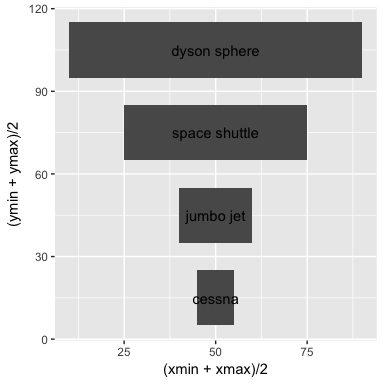
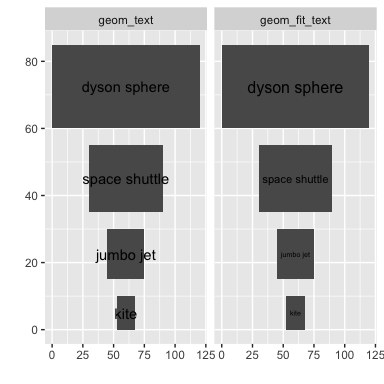
Update README

diff --git a/README.md b/README.md
@@ -24,44 +24,50 @@ install_github('wilkox/ggfittext')
 Fitting text to a box
 =====================
 
-Sometimes you want to draw some text in ggplot2 so that it doesn't spill outside a bounding box. For example, this doesn't look very good:
+Sometimes you want to draw some text in ggplot2 so that it doesn't spill outside a bounding box. ggfittext provides a geom called `geom_fit_text` that will shrink text (when needed) to fit a bounding box.
 
 ``` r
 library(ggfittext)
 flyers <- data.frame(
-  vehicle = c("cessna", "jumbo jet", "space shuttle", "dyson sphere"),
-  xmin = c(45, 40, 25, 10),
-  xmax = c(55, 60, 75, 90),
-  ymin = c(5, 35, 65, 95),
-  ymax = c(25, 55, 85, 115)
+  vehicle = rep(c("kite", "jumbo jet", "space shuttle", "dyson sphere"), 2),
+  xmin = rep(c(52.5, 45, 30, 0), 2),
+  xmax = rep(c(67.5, 75, 90, 120), 2),
+  ymin = rep(c(0, 15, 35, 60), 2),
+  ymax = rep(c(10, 30, 55, 85), 2),
+  geom = factor(c(rep("geom_text", 4), rep("geom_fit_text", 4)),
+                levels = c("geom_text", "geom_fit_text"))
 )
-ggplot(flyers) +
-  geom_rect(aes(xmin = xmin, xmax = xmax, ymin = ymin, ymax = ymax)) +
-  geom_text(aes(label = vehicle, x = (xmin + xmax) / 2, y = (ymin + ymax) / 2))
+ggplot(flyers, aes(label = vehicle, xmin = xmin, xmax = xmax, ymin = ymin, ymax = ymax)) +
+  geom_rect() +
+  geom_text(
+    data = subset(flyers, geom == "geom_text"),
+    aes(x = (xmin + xmax) / 2, y = (ymin + ymax) / 2)
+  ) +
+  geom_fit_text(data = subset(flyers, geom == "geom_fit_text")) +
+  facet_wrap( ~ geom) +
+  labs(x = "", y = "")
 ```
 
 ![](README-doesnt_fit-1.png)
-
-ggfittext provides a geom called `geom_fit_text` that will shrink text (when needed) to fit a bounding box.
-
-``` r
-ggplot(flyers, aes(xmin = xmin, xmax = xmax, ymin = ymin, ymax = ymax,
-                   label = vehicle)) +
-  geom_rect() +
-  geom_fit_text()
-```
-
-![](README-geom_fit_text-1.png)
 
 You can define the box with ‘xmin’ and ‘xmax’ aesthetics, or alternatively with ‘x’ and ‘width’ (width is given in millimetres). Likewise, you can use either ‘ymin’ and ‘ymax’ or ‘y’ and ‘height’. The ‘width’ and ‘height’ aesthetics can be useful when drawing on a discrete axis.
 
 You can specify where in the bounding box to place the text with `place`, and a minimum size for the text with `min.size`. (Any text that would need to be smaller than `min.size` to fit the box will be hidden.)
 
 ``` r
-ggplot(flyers, aes(xmin = xmin, xmax = xmax, ymin = ymin, ymax = ymax,
-                   label = vehicle)) +
+ggplot(flyers, aes(label = vehicle, xmin = xmin, xmax = xmax, ymin = ymin, ymax = ymax)) +
   geom_rect() +
-  geom_fit_text(place = "topleft", min.size = 8)
+  geom_text(
+    data = subset(flyers, geom == "geom_text"),
+    aes(x = (xmin + xmax) / 2, y = (ymin + ymax) / 2)
+  ) +
+  geom_fit_text(
+    data = subset(flyers, geom == "geom_fit_text"),
+    place = "top",
+    min.size = 6
+  ) +
+  facet_wrap( ~ geom) +
+  labs(x = "", y = "")
 ```
 
 ![](README-geom_fit_text_2-1.png)
@@ -74,10 +80,18 @@ Growing text
 With the `grow = TRUE` argument, text will be grown as well as shrunk to fit the box:
 
 ``` r
-ggplot(flyers, aes(xmin = xmin, xmax = xmax, ymin = ymin, ymax = ymax,
-                   label = vehicle)) +
+ggplot(flyers, aes(label = vehicle, xmin = xmin, xmax = xmax, ymin = ymin, ymax = ymax)) +
   geom_rect() +
-  geom_fit_text(grow = TRUE)
+  geom_text(
+    data = subset(flyers, geom == "geom_text"),
+    aes(x = (xmin + xmax) / 2, y = (ymin + ymax) / 2)
+  ) +
+  geom_fit_text(
+    data = subset(flyers, geom == "geom_fit_text"),
+    grow = T
+  ) +
+  facet_wrap( ~ geom, ncol = 1) +
+  labs(x = "", y = "")
 ```
 
 ![](README-geom_fit_text_3-1.png)
@@ -90,14 +104,14 @@ The `reflow = TRUE` argument causes text to be reflowed (wrapped) as needed to f
 ``` r
 poem <- data.frame(
   text = rep(
-    "Whose text this is I think I know.\nHe would prefer it to reflow",
+    "Whose words these are I think I know.\nHe would prefer that they reflow",
     3
   ),
   xmin = rep(10, 3),
   xmax = rep(90, 3),
   ymin = rep(10, 3),
   ymax = rep(90, 3),
-  fit = c("geom_text", "no reflow", "reflow")
+  fit = c("geom_text", "without reflow", "with reflow")
 )
 ggplot(poem, aes(xmin = xmin, xmax = xmax, ymin = ymin, ymax = ymax,
                  label = text)) +
@@ -106,8 +120,8 @@ ggplot(poem, aes(xmin = xmin, xmax = xmax, ymin = ymin, ymax = ymax,
     data = subset(poem, fit == "geom_text"),
     aes(x = (xmin + xmax) / 2, y = (ymin + ymax) / 2)
   ) +
-  geom_fit_text(data = subset(poem, fit == "no reflow"), min.size = 0) +
-  geom_fit_text(data = subset(poem, fit == "reflow"), reflow = TRUE, min.size = 0) +
+  geom_fit_text(data = subset(poem, fit == "without reflow"), min.size = 0) +
+  geom_fit_text(data = subset(poem, fit == "with reflow"), reflow = TRUE, min.size = 0) +
   lims(x = c(0, 100), y = c(0, 100)) +
   labs(x = "", y = "") +
   facet_wrap(~ fit)
@@ -126,7 +140,7 @@ film <- data.frame(
   xmax = rep(70, 3),
   ymin = rep(0, 3),
   ymax = rep(100, 3),
-  fit = c("geom_text", "grow, no reflow", "grow and reflow")
+  fit = c("geom_text", "grow without reflow", "grow with reflow")
 )
 ggplot(film, aes(xmin = xmin, xmax = xmax, ymin = ymin, ymax = ymax,
                  label = text)) +
@@ -135,9 +149,9 @@ ggplot(film, aes(xmin = xmin, xmax = xmax, ymin = ymin, ymax = ymax,
     data = subset(film, fit == "geom_text"),
     aes(x = (xmin + xmax) / 2, y = (ymin + ymax) / 2)
   ) +
-  geom_fit_text(data = subset(film, fit == "grow, no reflow"), grow = TRUE) +
+  geom_fit_text(data = subset(film, fit == "grow without reflow"), grow = TRUE) +
   geom_fit_text(
-    data = subset(film, fit == "grow and reflow"),
+    data = subset(film, fit == "grow with reflow"),
     grow = TRUE,
     reflow = TRUE
   ) +
